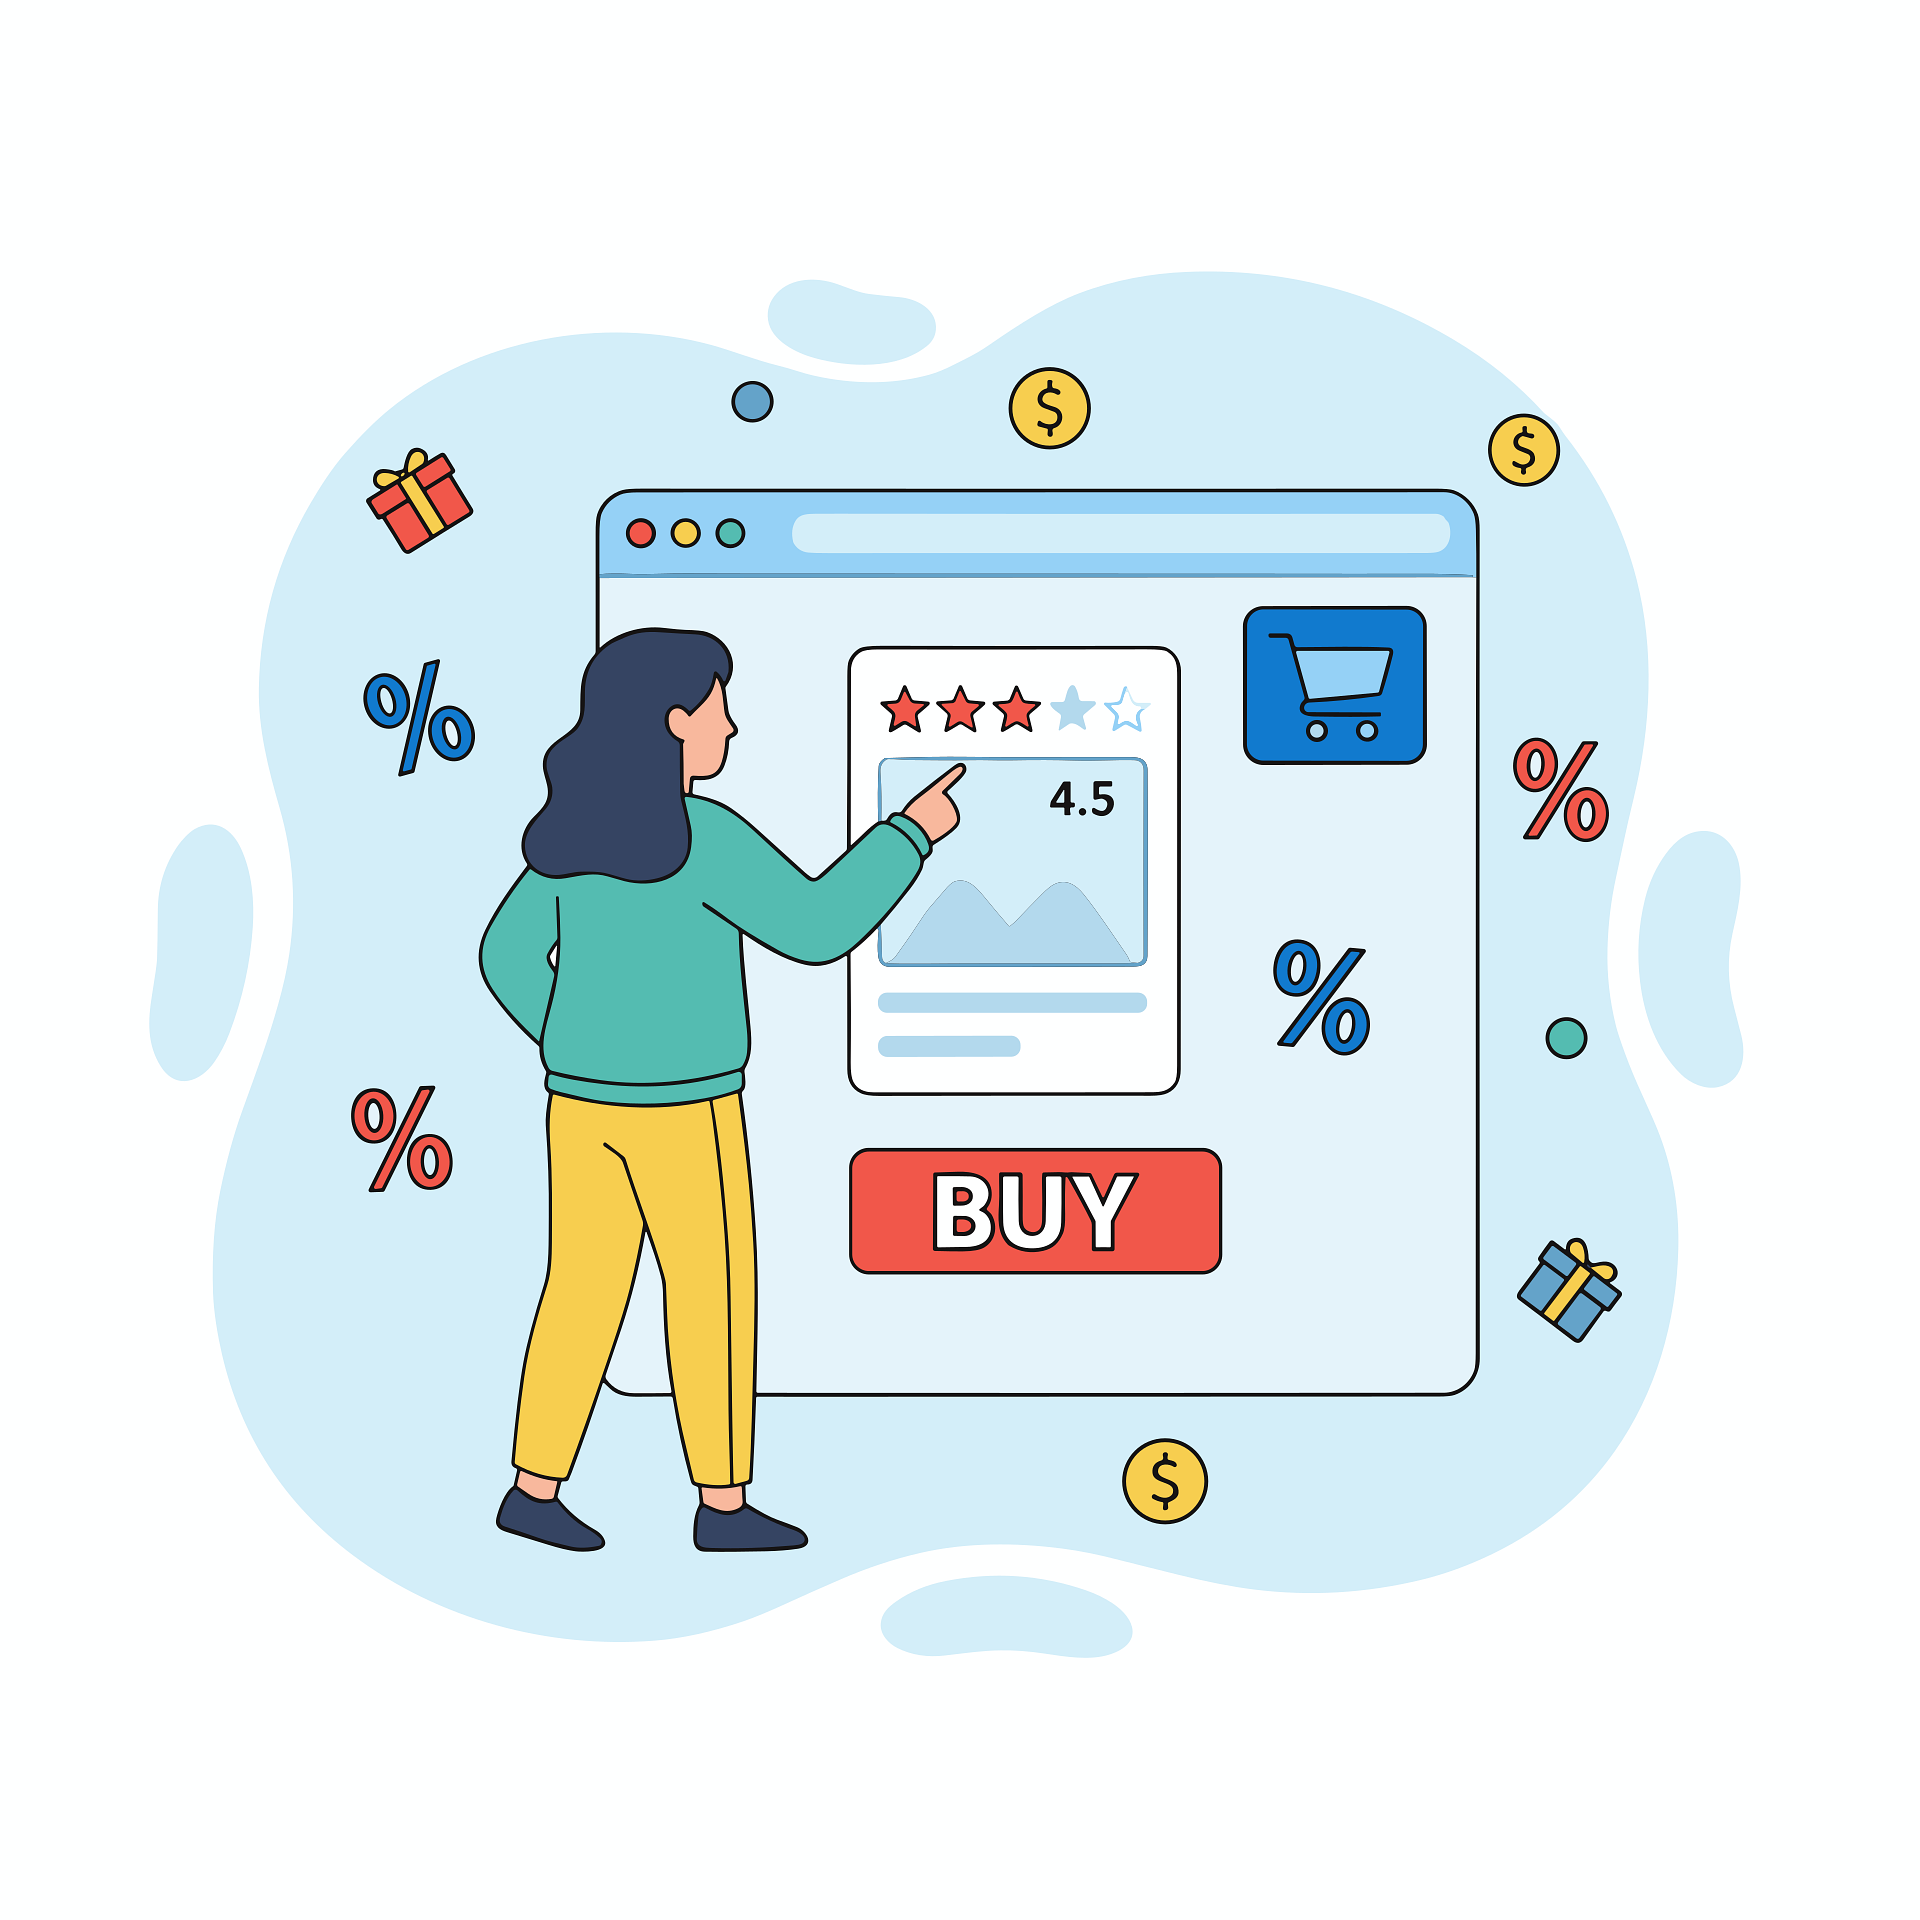
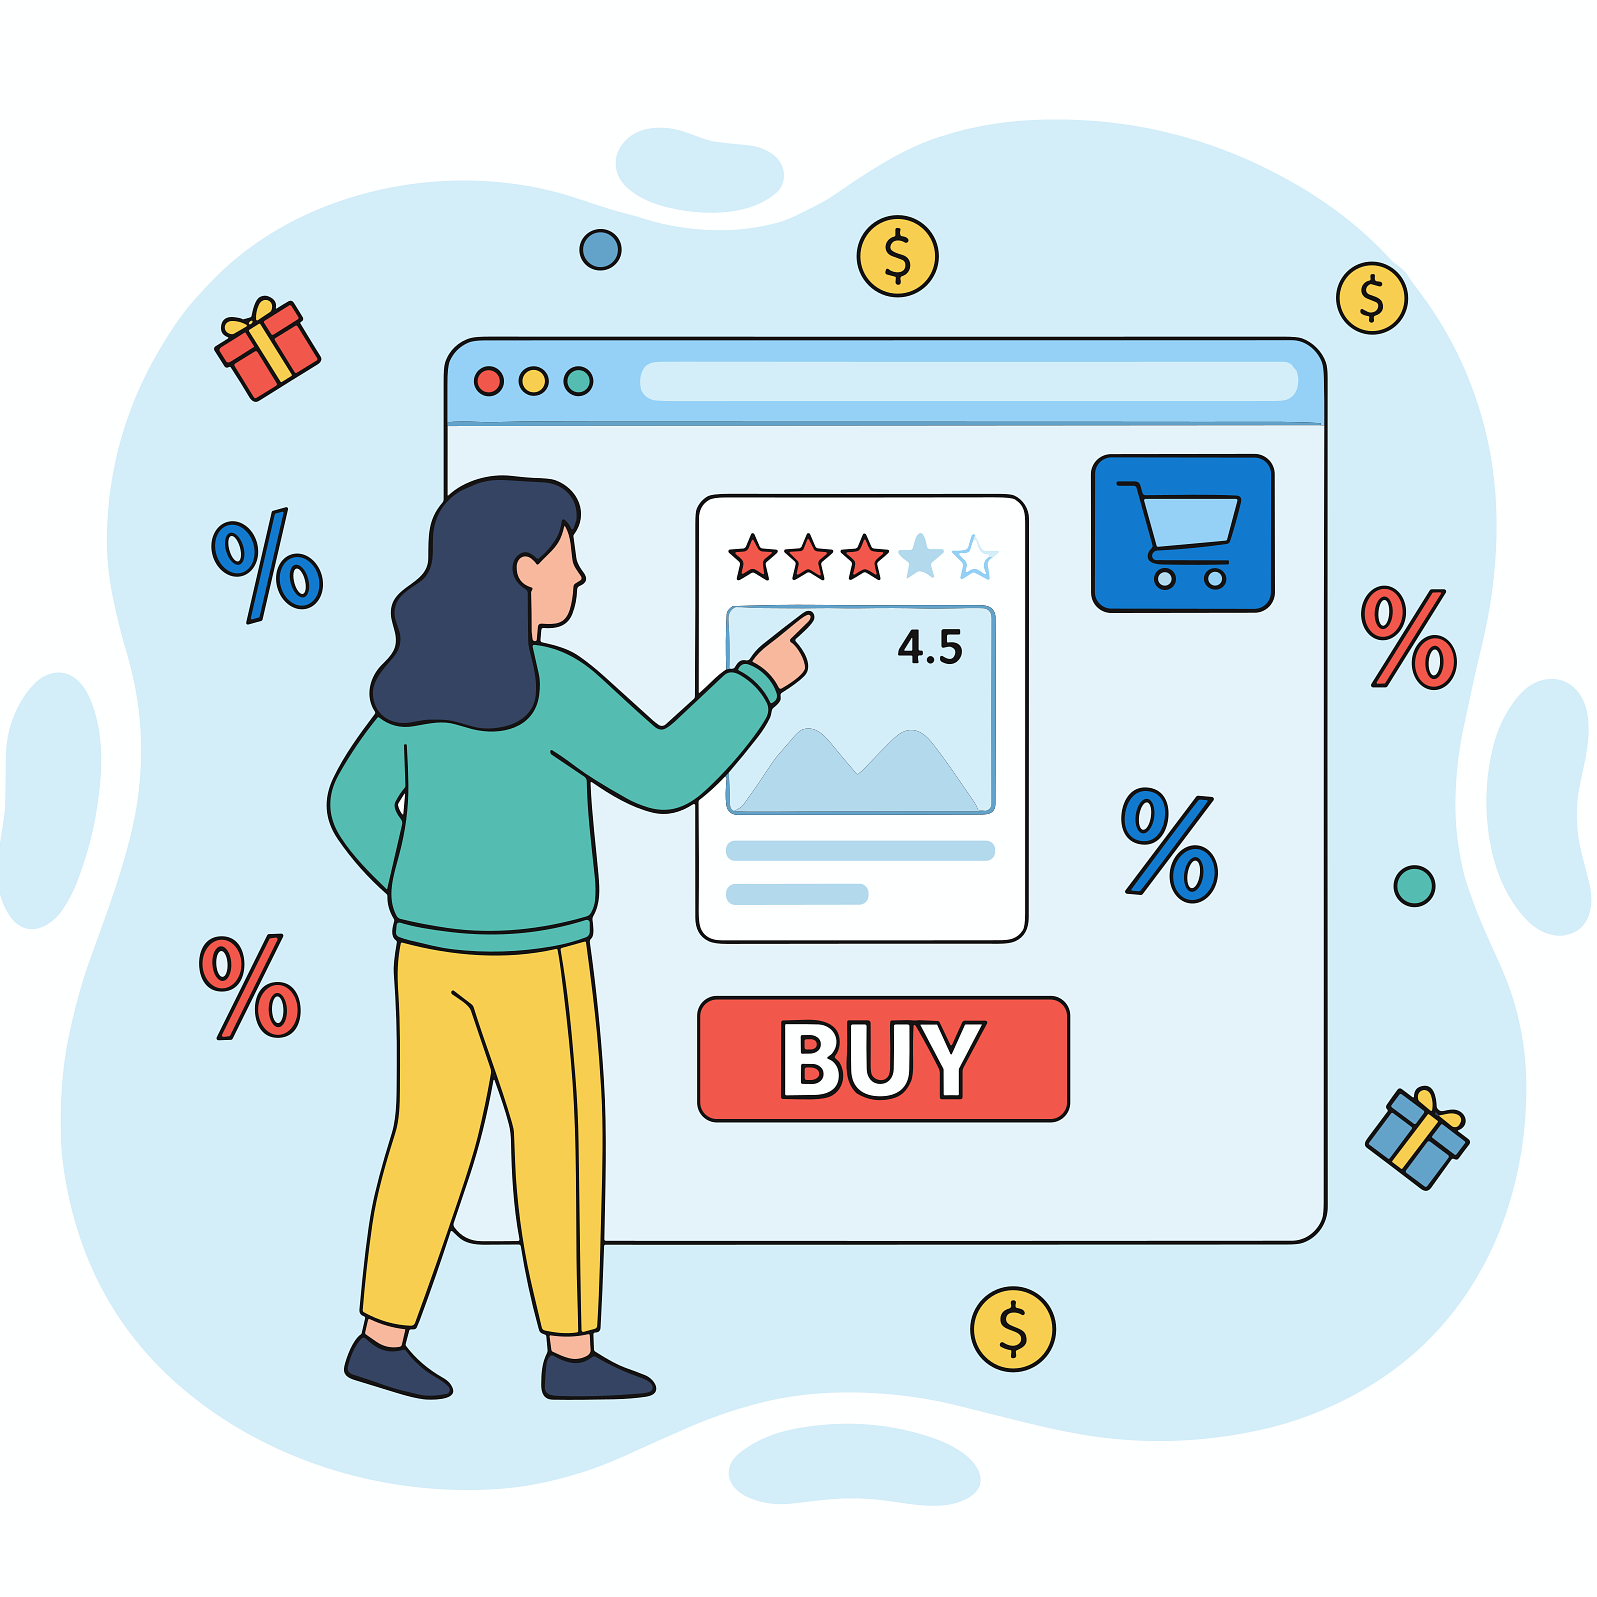
fin de web

diff --git a/index.html b/index.html
@@ -1,57 +1,77 @@
-<!DOCTYPE html>
+<!doctype html>
 <html lang="en">
-<head>
-    <meta charset="UTF-8">
-    <meta name="viewport" content="width=, initial-scale=1.0">
+  <head>
+    <meta charset="UTF-8" />
+    <meta name="viewport" content="width=, initial-scale=1.0" />
+    <link rel="stylesheet" href="https://cdnjs.cloudflare.com/ajax/libs/font-awesome/6.5.1/css/all.min.css"/>">
     <title>Document</title>
-    <link rel="stylesheet" href="css/stile.css">
-</head>
-<body>
+    <link rel="stylesheet" href="css/stile.css" />
+  </head>
+  <body>
     <header>
-        <p id="jw">JW</p>
-        <nav>
-            <a href="julio web">julio web</a>
-            <a href="trabajos">trabajos</a>
-            <a href="contactos">contactos</a>
-        </nav>
+      <p id="jw">JW</p>
+      <nav>
+        <a href="julio web">julio web</a>
+        <a href="trabajos">trabajos</a>
+        <a href="contactos">contactos</a>
+      </nav>
     </header>
     <main>
-
-        <div id="julioweb">
-            <h1>julio granados del valle</h1>
-            <h2>desarollador web</h2>
-        </div>
-        <div id="avatar">
-            <img src="img/julio2.jpeg" alt="">
+      <div id="julioweb">
+        <h1>julio granados del valle</h1>
+        <h2>desarollador web</h2>
+      </div>
+      <div id="avatar">
+        <img src="img/julio2.jpeg" alt="" />
+      </div>
+      <section id="trabajos">
+        <div class="tarjeta-trabajo">
+          <img src="img/fondoweb.png" alt="" />
+          <h2>comercio online</h2>
+          <p>comercio on line con cobros integrados
+            todo tipo de servicios para comercios online
+          </p><button>ver mas</button>
         </div>
         <div class="tarjeta-trabajo">
-            <img src="img/fondoweb.png" alt="">
-            <h2>comercio online</h2>
-            <p>comercio on line con cobros integrados</p>
-
+          <img src="img/julio.jpg" alt="" />
+          <h2>diseño on line</h2>
+          <p>diseño adaptado atodos los comercios proyectos integrales para comercios digitales
+          </p>
+          <button>ver mas</button>
         </div>
-        <div class="diseño">
-            <img src="img/julio.jpg" alt="">
-            <h2>diseño on line</h2>
-            <p>diseño adaptado atodos los comercios</p>
+        <div class="tarjeta-trabajo">
+          <img src="img/web.png" alt="" />
+          <h2>aplicaion de tareas</h2>
+          <p>aplicaion para gestionar tareas</p>
+          <button>ver mas</button>
         </div>
-        <div class="aplicacion-de-tareas">
-            <img src="img/web.png" alt="">
-            <h2>aplicaion de tareas</h2>
-            <p>aplicaion para gestionar tareas</p>
-        </div>
-        
-        <img src="./img/ecomerce.png" alt="">
-        <img src="./img/imagen fondo.jpg" alt="">
-        
-        
+      </section>
     </main>
     <footer>
-        <a href="tel:+346223456782">+34 622 34 56 782</a>
-        <a href="mailto:julioweb@gmail.com">julioweb@gmail.com</a>
-        <a href="http://">juliowebinside.es</a>
-        <a href="http://instragram">/instragram</a>
-        <a href="http://facebook">facebook</a>
+        <div class="footer-contacto">
+          <a href="mailto:julioweb@gmail.com">
+            <i class="fa-solid fa-envelope"></i>
+            julioweb@gmail.com
+          </a>
+          <a href="+34622345678"></a>
+           <i class="fa-solid fa-phone"></i>
+            +34 622 34 56 78
+          </a>
+          <a href="https://juliowebinside.es">
+            <i class="fa-solid fa-earth-europe"></i>
+            juliowebinside.es</a>
+            
+           
+           
+        </div>
+      
+      <div class="footer-redes"> 
+        <a href="https://facebook.com" target="_blank"> 
+            <i class="fa-brands fa-facebook"></i>
+        </a>
+        <a href="https://instagram.com" target="_blank">
+            <i class="fa-brands fa-instagram"></i>
+        </a>
     </footer>
-</body>
+  </body>
 </html>

diff --git a/css/stile.css b/css/stile.css
@@ -1,79 +1,123 @@
-header{
-    display: flex;
-    align-content: center;
-    justify-content: space-evenly;
-    flex-direction: row;
-    align-items: baseline;
-    flex-wrap: wrap;
+* {
+  margin: 0;
+  padding: 0;
+  box-sizing: border-box;
+}
+:root {
+  --color-principal: rgb(69, 37, 185);
+}
+header {
+  display: flex;
+  align-content: center;
+  justify-content: space-evenly;
+  flex-direction: row;
+  align-items: baseline;
+  flex-wrap: wrap;
 }
 
 #jw {
-    font-size: 40px;
-    font-weight: bolder;
-    color: rgb(168, 194, 216);background-color: rgb(47, 29, 114);
-    border-radius: 80%;
-    padding: 40px;
-    box-shadow: 8px 8px 17px -5px rgba(26, 195, 201, 0.75);
+  font-size: 40px;
+  font-weight: bolder;
+  color: rgb(168, 194, 216);
+  background-color: rgb(40, 40, 190);
+  border-radius: 80%;
+  padding: 40px;
+  box-shadow: 8px 8px 17px -5px rgba(40, 40, 190);
 }
 nav a {
-    text-decoration: none;
-    font-size: 2rem;
-    font-weight: bolder;
-    margin: 0 10px;
-    color: rgb(18, 18, 102);
+  text-decoration: none;
+  font-size: 2rem;
+  font-weight: bolder;
+  margin: 0 10px;
+  color: rgb(18, 18, 102);
 }
-nav a:hover{
-    color: rgb(19, 19, 116);
-    transform: scale(1.2);
-    
+nav a:hover {
+  color: var(--color-principal);
+  transform: scale(1.2);
 }
-#julioweb{
-    width: 100%;
-    height: 80vh;
-    height: 80vh;
-    
-    background:linear-gradient(rgba(0, 0, 0, 0.7), rgba(0, 0, 0, 0.7)),
-        url("../img/imagenfondo.jpg");
+#julioweb {
+  width: 100%;
+  height: 80vh;
+  height: 80vh;
 
-    background-size: cover;
-    background-position: center;
-    display: flex;
-    justify-content: center;
-    flex-direction: column;
-    align-items: center;
-    color: white;
+  background:
+    linear-gradient(rgba(0, 0, 0, 0.7), rgba(0, 0, 0, 0.7)),
+    url("../img/imagenfondo.jpg");
 
-
-    
+  background-size: cover;
+  background-position: center;
+  display: flex;
+  justify-content: center;
+  flex-direction: column;
+  align-items: center;
+  color: white;
 }
-#avatar{
-    padding: 5px;
-    background-color: blue;
-    border-radius: 50%;
-    width: 200px;
-    height: 200px;
-    margin: 0 auto;
-    margin-top:  -100px;
-
-
+#avatar {
+  padding: 5px;
+  background-color: rgb(45, 45, 190);
+  border-radius: 50%;
+  width: 200px;
+  height: 200px;
+  margin: 0 auto;
+  margin-top: -100px;
 }
-#avatar img{
-    width: 100%;
-    border-radius: 50%;
-
+#avatar img {
+  width: 100%;
+  border-radius: 50%;
 }
 #trabajos {
-    display: grid;
-    grid-template-columns: repeat(3, 1fr);
-    gap: 2%;
+  display: grid;
+  grid-template-columns: repeat(3, 1fr);
+  gap: 2%;
 }
-.tarjeta-trabajo img{
-    width: 400px;
+.tarjeta-trabajo img {
+  width: 100%;
+}
+.tarjeta-trabajo {
+  border: solid 1px;
+  color: #2b0b81;
+  border-radius: 2%;
+  box-shadow: 8px 8px 17px 5px;
+  color: rgb(40, 40, 190);
+  display: flex;
+  flex-direction: column;
+}
 
+.texto-tarjeta {
+  padding: 2%;
+  text-align: center;
+  flex: 1;
+  display: flex;
+  flex-direction: column;
 }
-.diseño img{
-    width: 400px;
+
+.tarjeta-trabajo {
+  padding: 2%;
+  text-align: center;
 }
-.aplicacion-de-tareas img{
-    width: 400px;
+.tarjeta-button {
+  margin-top: auto;
+}
+footer {
+  width: 100%;
+  margin-top: 5rem;
+  padding: 50px;
+  display: flex;
+  align-items: flex-start;
+  justify-content: center;
+  background-color: rgb(129, 131, 230);
+}
+.footer-contacto a {
+  text-decoration: none;
+  margin: 80px;
+  font-family: fantasy;
+  font-size: 2vh;
+  color: black;
+}
+.footer-redes a {
+  text-decoration: none;
+  margin: 80px;
+  font-family: fantasy;
+  font-size: 3vh;
+  color: black;
 }
